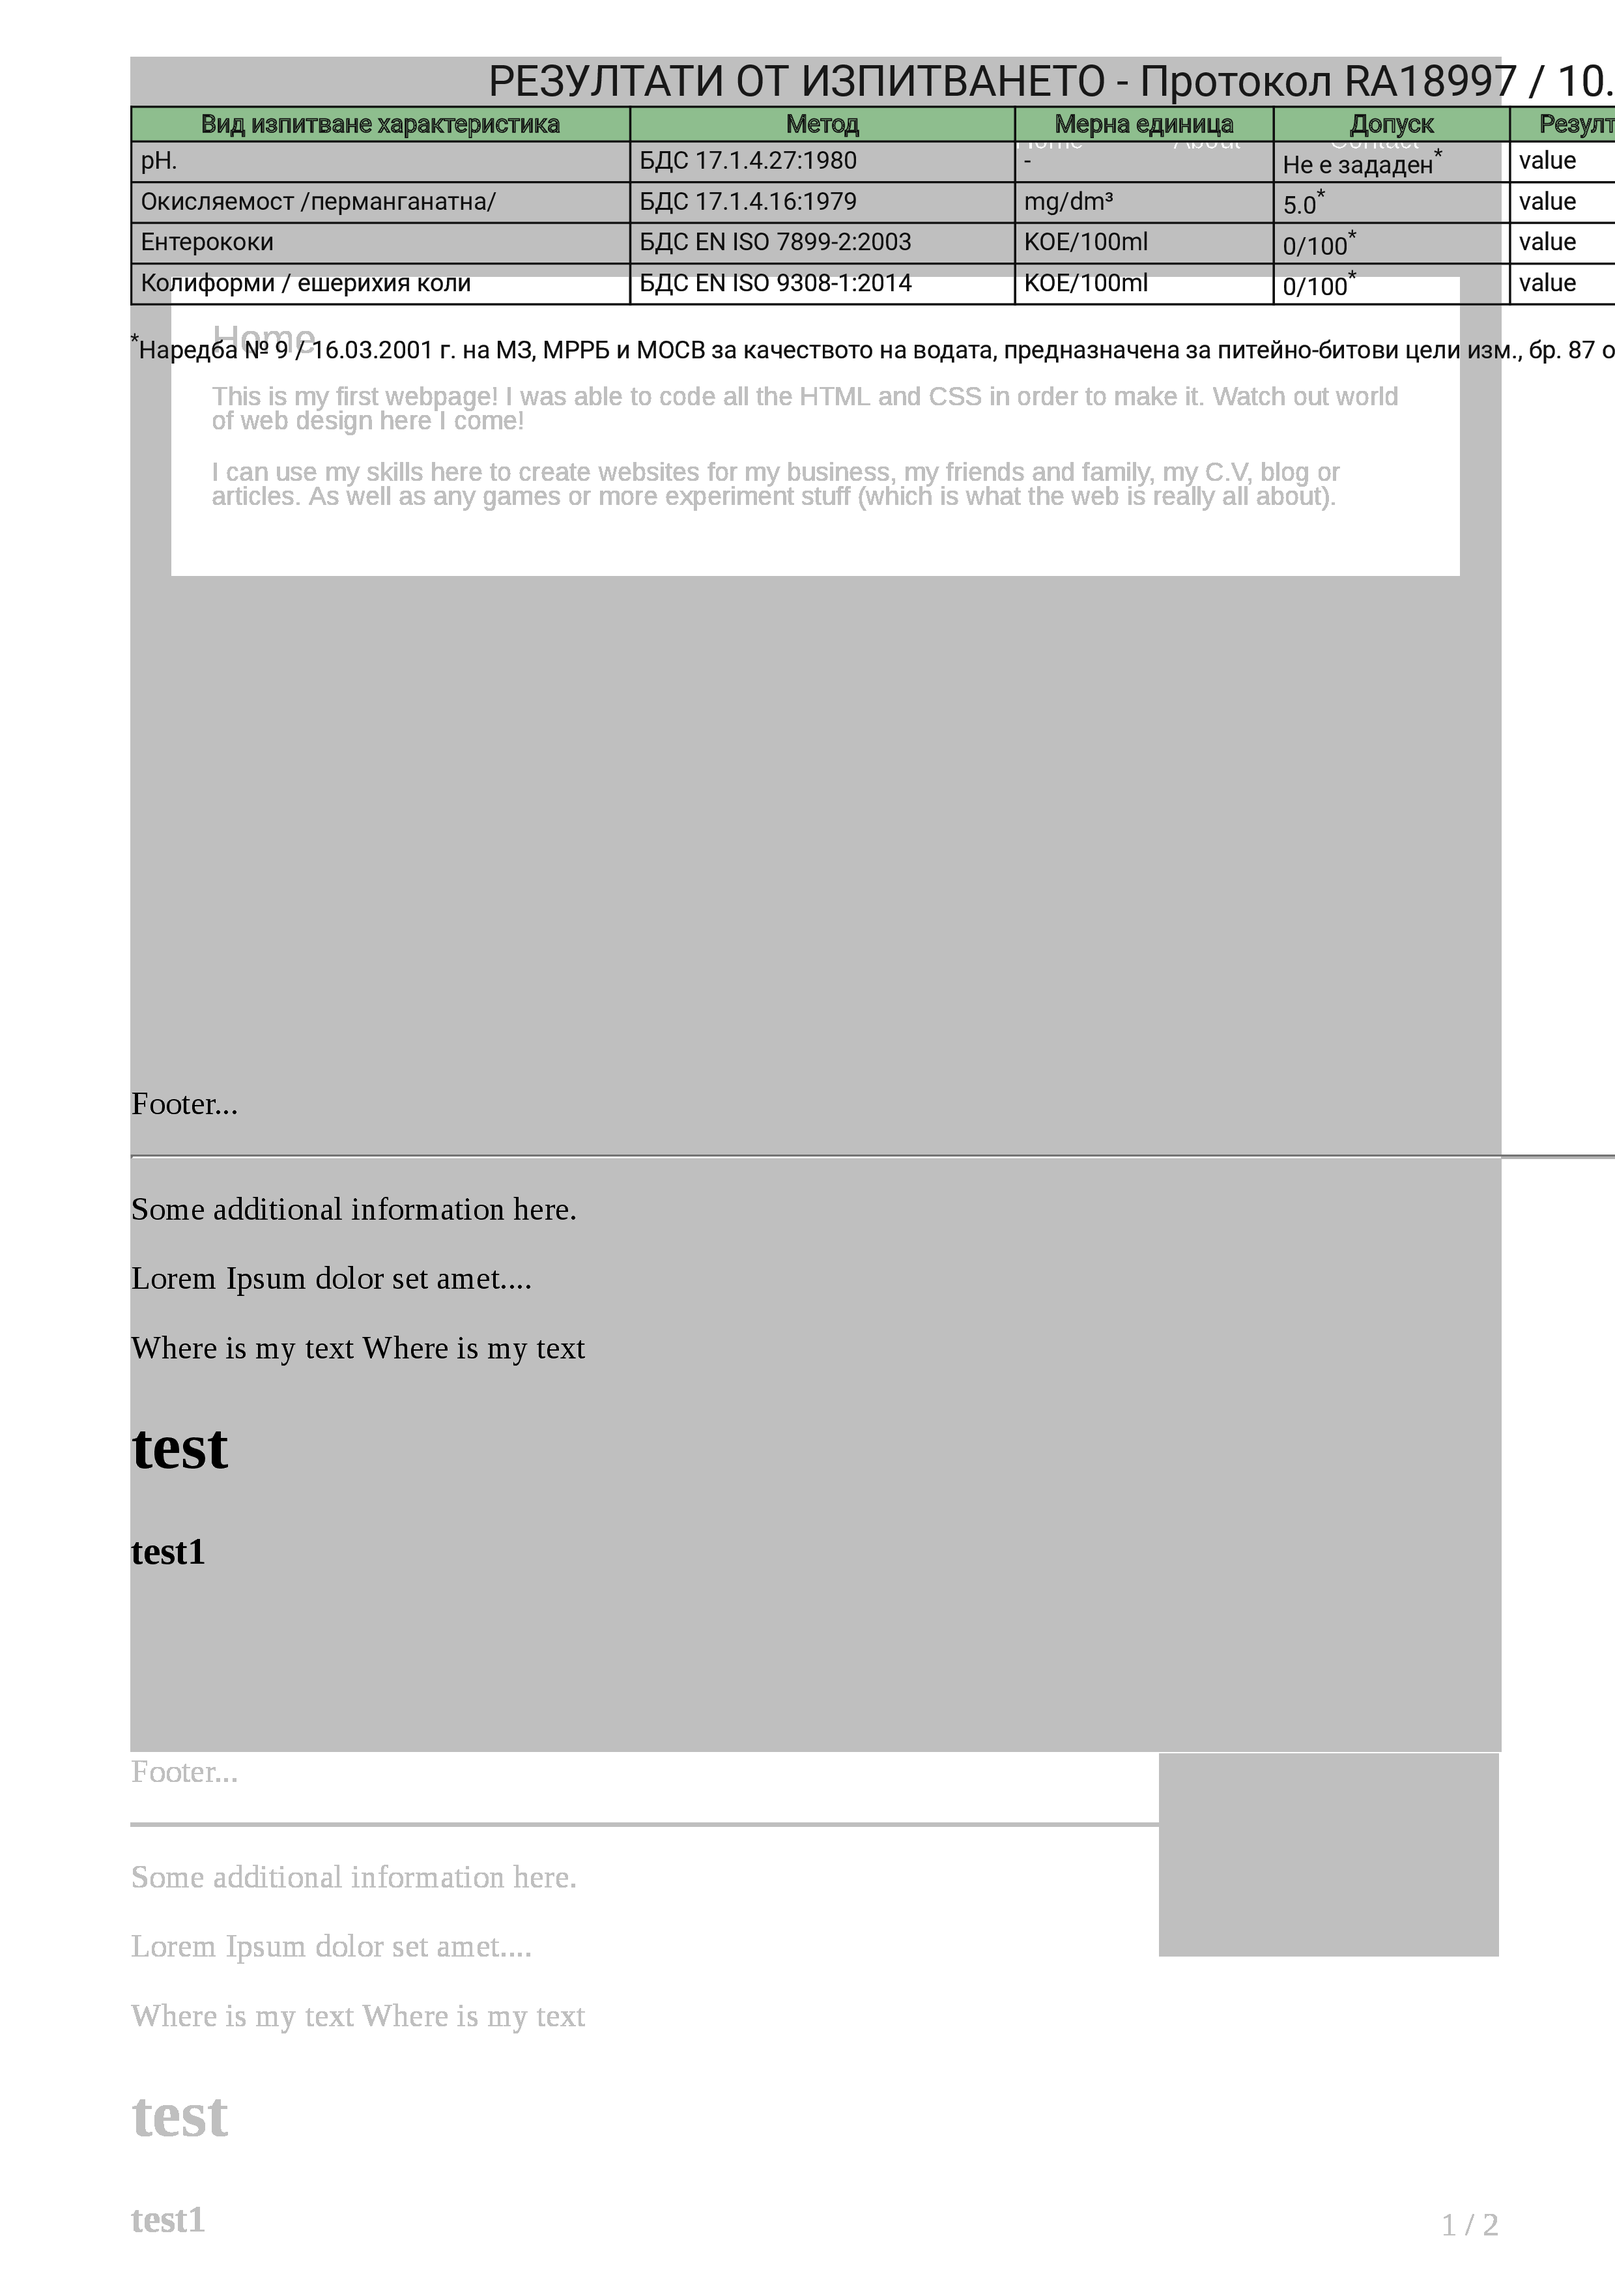
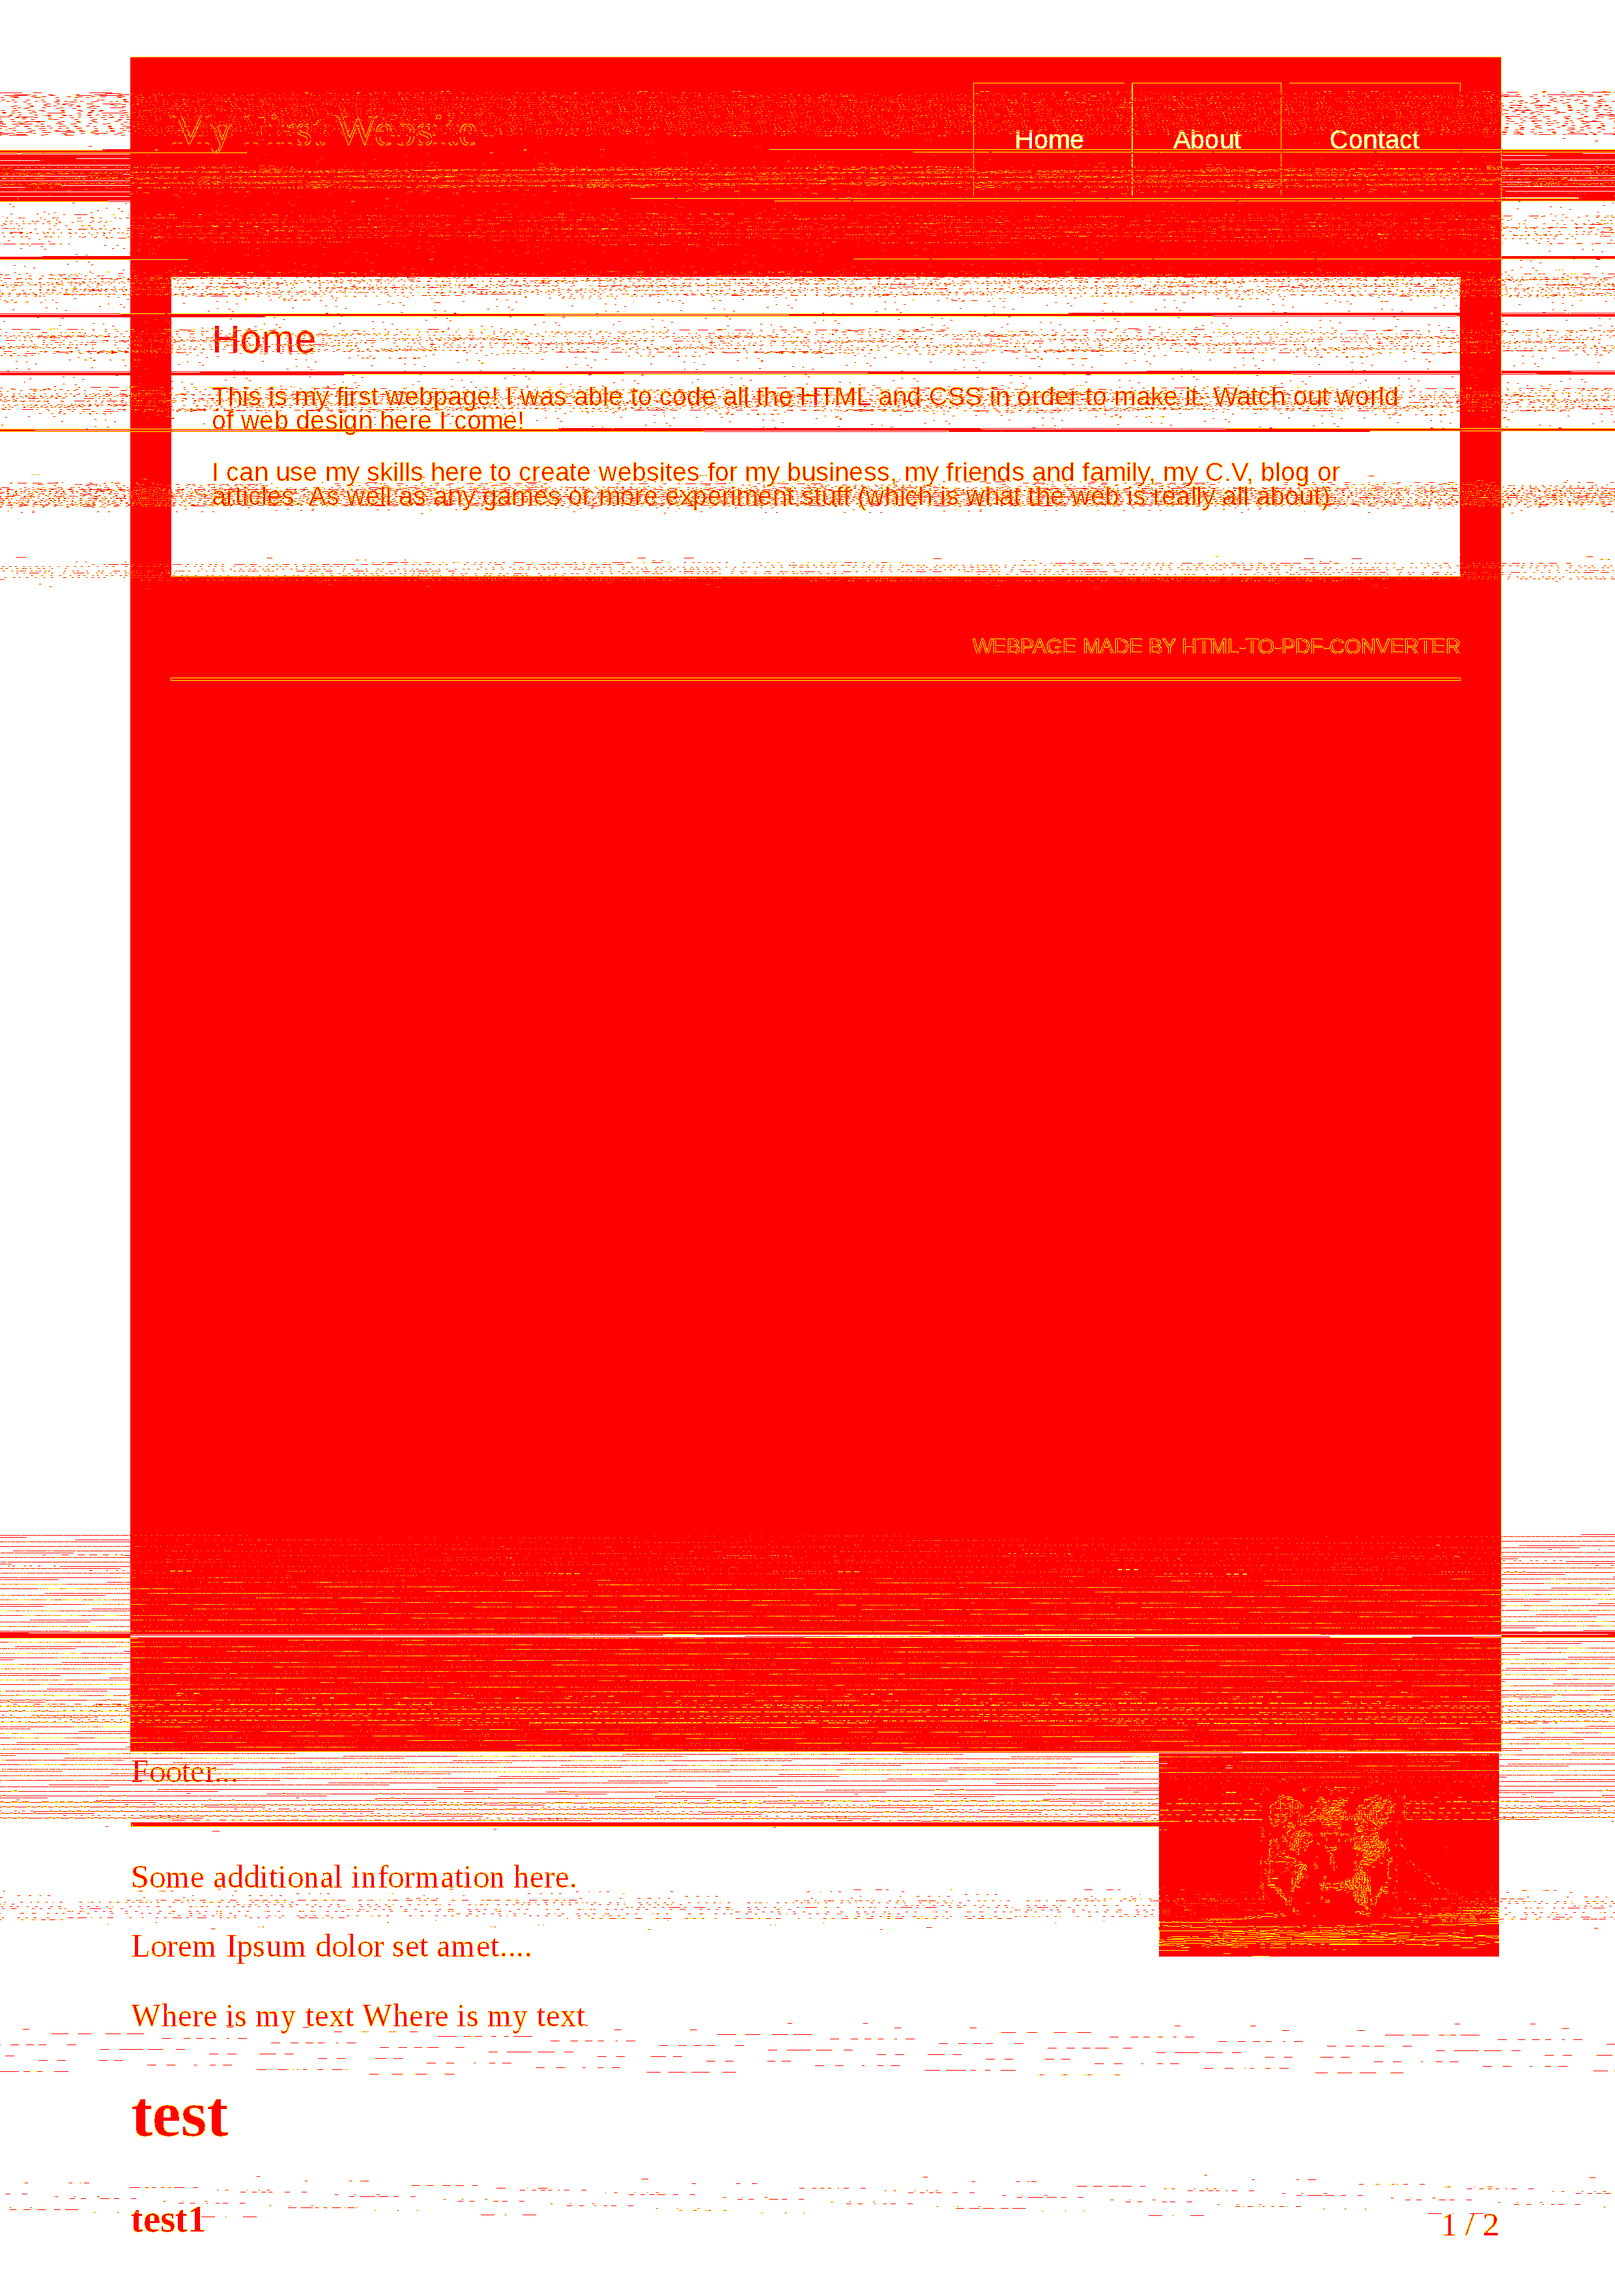
Replace graphicsmagic with jimp for image diff (#44)
* replace graphicsmagic with jimp for image diff

* remove gm dependency

diff --git a/src/compare-pdf-to-snapshot.spec.ts b/src/compare-pdf-to-snapshot.spec.ts
@@ -2,7 +2,7 @@ import { comparePdfToSnapshot, snapshotsDirName, CompareOptions } from './compar
 import { join } from 'path'
 import { expect } from 'chai'
 import { existsSync, unlinkSync } from 'fs'
-import { compare } from './compare'
+import { compareImages } from './compare-images'
 
 const testDataDir = join(__dirname, './test-data')
 const pdfs = join(testDataDir, 'pdfs')
@@ -35,27 +35,6 @@ describe('comparePdfToSnapshot()', () => {
       expect(existsSync(snapshotDiffPath)).to.eq(true, 'diff is not created')
       const snapshotNewPath = join(__dirname, snapshotsDirName, 'two-page.new.png')
       expect(existsSync(snapshotNewPath)).to.eq(true, 'new is not created')
-    }))
-
-  it('custom options', () =>
-    comparePdfToSnapshot(singlePagePdfPath, __dirname, 'two-page-overwrite-opts', {
-      highlightColor: 'Red',
-      highlightStyle: 'XOR',
-    }).then((x) => {
-      expect(x).to.be.false
-      const snapshotDiffPath = join(__dirname, snapshotsDirName, 'two-page-overwrite-opts.diff.png')
-      expect(existsSync(snapshotDiffPath)).to.eq(true, 'diff is not created')
-      const snapshotNewPath = join(__dirname, snapshotsDirName, 'two-page-overwrite-opts.new.png')
-      expect(existsSync(snapshotNewPath)).to.eq(true, 'new is not created')
-
-      const expectedImagePath = join(
-        __dirname,
-        './test-data',
-        'expected-two-page-overwrite-opts.diff.png',
-      )
-      return compare(expectedImagePath, snapshotDiffPath, { tolerance: 0 }).then((x) =>
-        expect(x).to.eq(true, 'generated diff image does not match expected one'),
-      )
     }))
 
   describe('maskRegions', () => {
@@ -99,7 +78,7 @@ describe('comparePdfToSnapshot()', () => {
       return comparePdfToSnapshot(singlePagePdfPath, __dirname, snapshotName, opts)
         .then((x) => expect(x).to.be.true)
         .then(() =>
-          compare(expectedImagePath, snapshotPath, { tolerance: 0 }).then((x) =>
+          compareImages(expectedImagePath, snapshotPath, { tolerance: 0 }).then((x) =>
             expect(x).to.eq(true, 'generated initial rectangle masks does not match expected one'),
           ),
         )

diff --git a/src/compare-images.ts b/src/compare-images.ts
@@ -1,4 +1,4 @@
-import { compare, CompareOptions, HighlightStyle } from './compare'
+import Jimp, { read } from 'jimp'
 
 const diffToken = '.diff'
 export const mkDiffPath = (path: string): string => {
@@ -20,39 +20,32 @@ export type HighlightColor =
   | 'Gray'
 
 export type CompareImagesOpts = {
-  highlightColor: HighlightColor
-  highlightStyle: HighlightStyle
   tolerance: number
   writeDiff: boolean
 }
 
 const defaultOpts: CompareImagesOpts = {
-  highlightColor: 'Black',
-  highlightStyle: 'Tint',
   tolerance: 0,
   writeDiff: true,
 }
 
-export const compareImages = (
+export const compareImages = async (
   expectedImagePath: string,
   resultImagePath: string,
   compareImagesOpts: Partial<CompareImagesOpts> = {},
 ): Promise<boolean> => {
-  const { tolerance, writeDiff, highlightColor, highlightStyle } = {
+  const { tolerance, writeDiff } = {
     ...defaultOpts,
     ...compareImagesOpts,
   }
-  return compare(expectedImagePath, resultImagePath, { tolerance }).then((isEqual) => {
-    if (writeDiff === true && isEqual === false) {
-      const options: CompareOptions = {
-        file: mkDiffPath(resultImagePath),
-        highlightColor,
-        highlightStyle,
-        tolerance,
-      }
-      return compare(expectedImagePath, resultImagePath, options)
+  const [img1, img2] = await Promise.all([read(expectedImagePath), read(resultImagePath)])
+  const diff = Jimp.diff(img1, img2, tolerance)
+  if (diff.percent > 0) {
+    if (writeDiff) {
+      await diff.image.writeAsync(mkDiffPath(resultImagePath))
     }
+    return false
+  }
 
-    return isEqual
-  })
+  return true
 }

diff --git a/src/compare-pdf-to-snapshot.ts b/src/compare-pdf-to-snapshot.ts
@@ -49,10 +49,8 @@ export const snapshotsDirName = '__snapshots__'
  * @param pdf - path to pdf file or pdf loaded as Buffer
  * @param snapshotDir - path to a directory where __snapshots__ folder is going to be created
  * @param snapshotName - uniq name of a snapshot in the above path
- * @param compareOptions - settings for image comparation
- * @param compareOptions.highlightColor - color for differences in the diff image, defaults to Black
- * @param compareOptions.highlightStyle - highlight style as documented by the {@link http://www.graphicsmagick.org/GraphicsMagick.html#details-highlight-style gm package}, defaults to Tint
- * @param compareOptions.tolerance - number value for error tolerance, defaults to 0
+ * @param compareOptions - image comparison options
+ * @param compareOptions.tolerance - number value for error tolerance, ranges 0-1 (default: 0)
  * @param compareOptions.writeDiff - flag to enable/disable diff file creation, defaults to true
  */
 export const comparePdfToSnapshot = (
